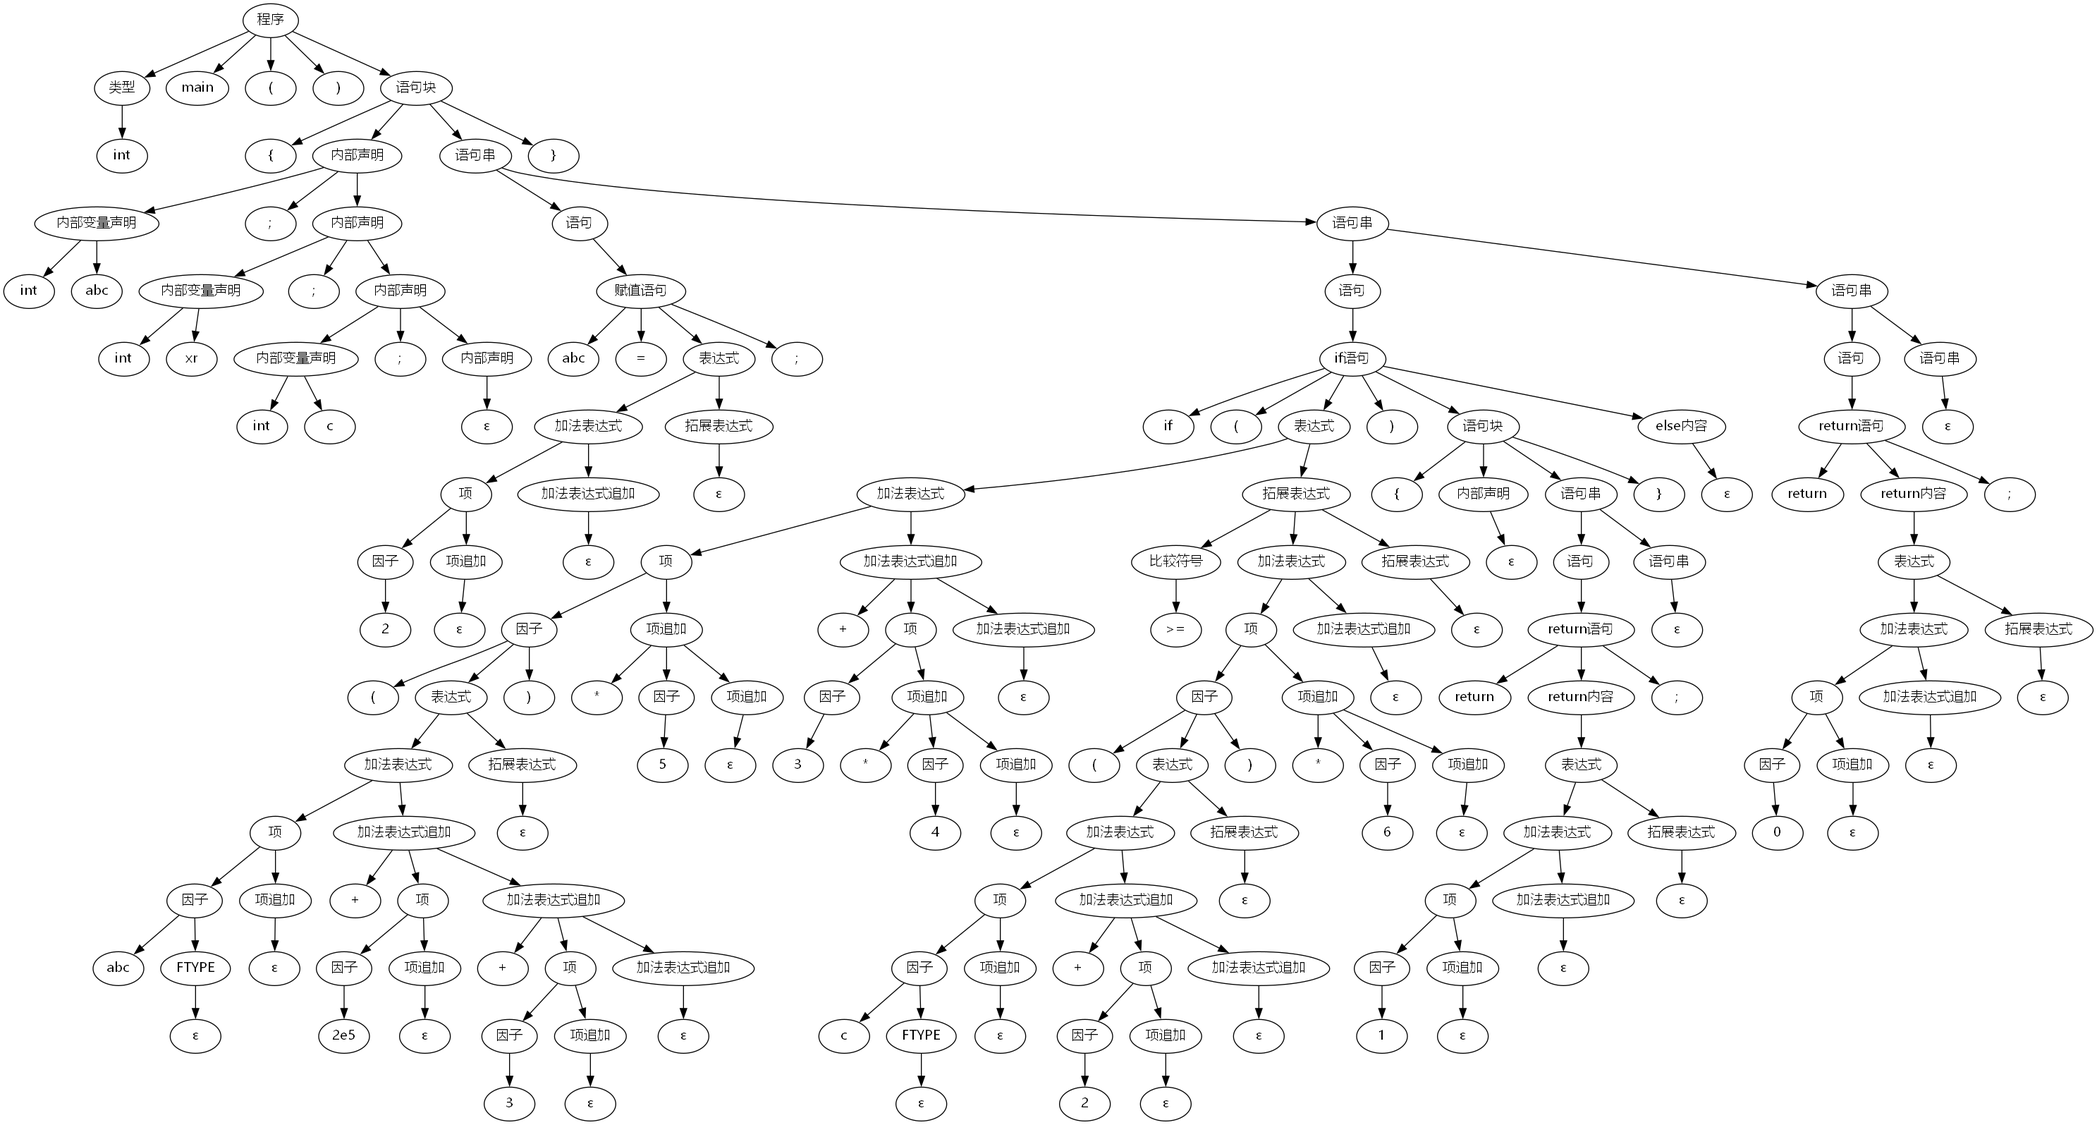
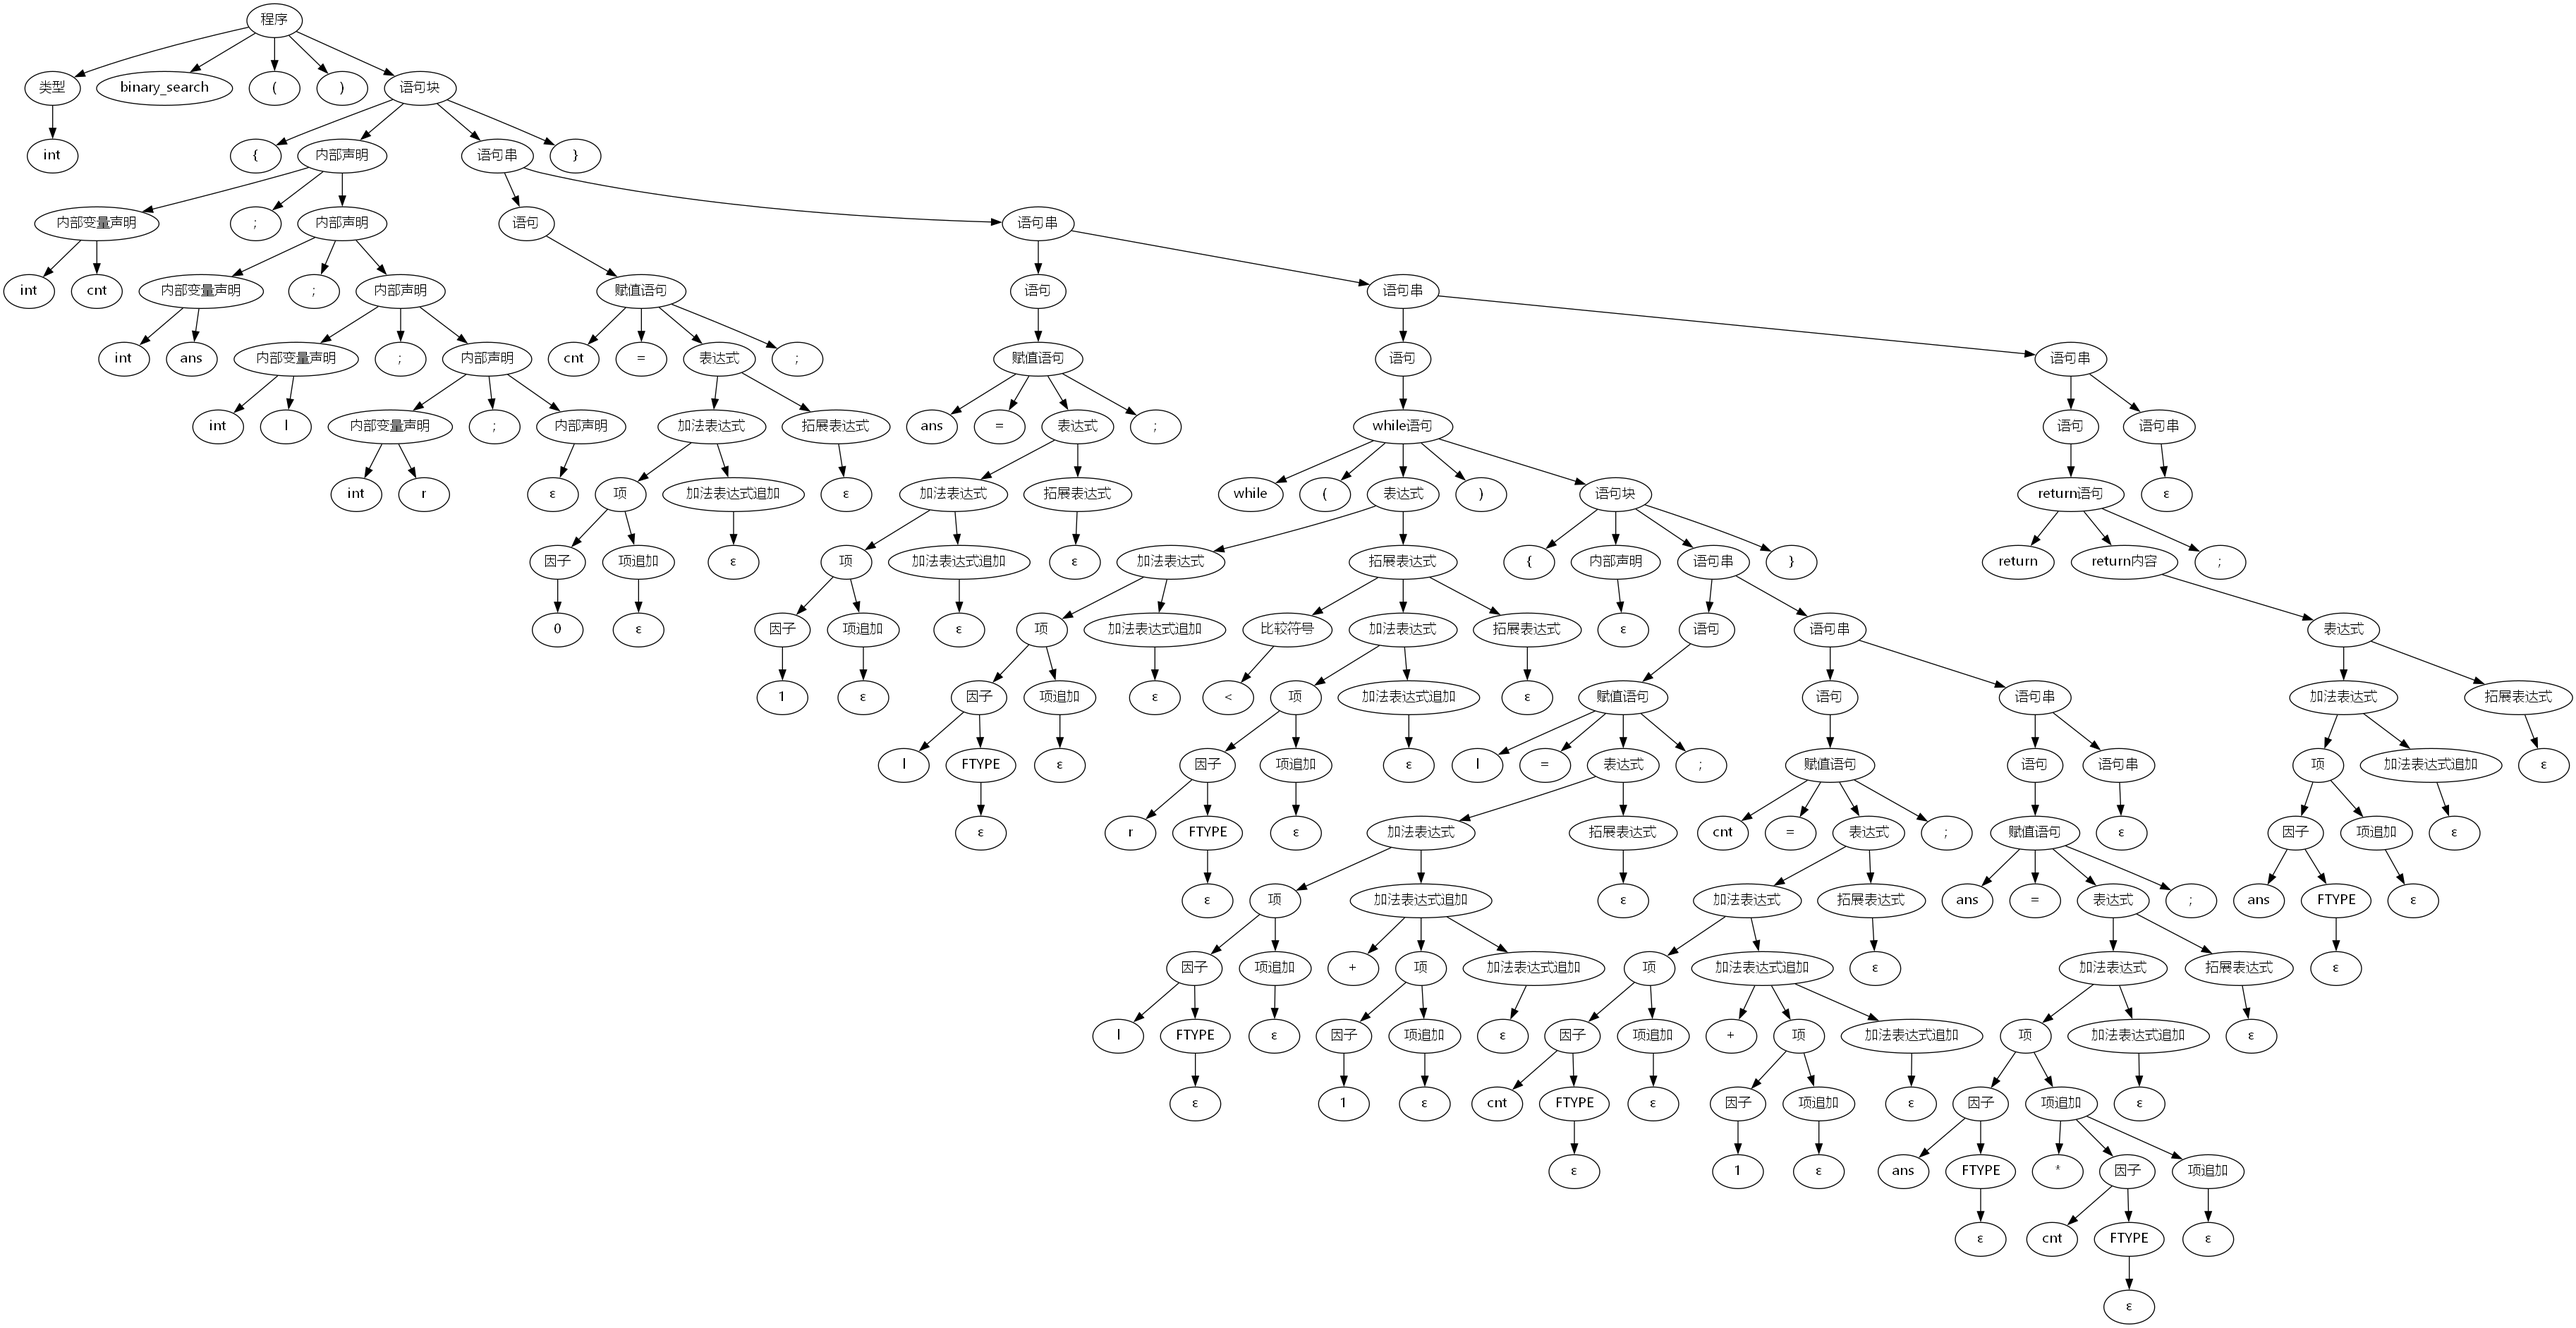
修正了词法分析器最后一行无法读入的bug.

diff --git a/gparser.py b/gparser.py
@@ -69,13 +69,13 @@ def initProjectSet():
 
 def GParser():
     initProjectSet()
-    input_st = ['#'] + w_dict[::-1]
+    input_st = [['#', 'INPUT_END', w_dict[-1][2]]] + w_dict[::-1]
     state_st, sym_st, id_st, son_st = [0], ['#'], [], []
     try:
         while len(input_st) > 0:
             ns = (state_st[-1], input_st[-1][0])#当前状态的元组
             t = action_goto.get(ns)
-            if not t:
+            if t is None:
                 raise Exception('[Error]#201 in line {}, position {}: Unexpected word \'{}\' after \'{}\'.'.format(*input_st[-1][2], input_st[-1][1], sym_st.pop()))
             if t[0] == 's' or t[0] == 'g': #移进或者goto,两者代码相同
                 it = input_st.pop()

diff --git a/lexer.py b/lexer.py
@@ -10,10 +10,12 @@ def preProcessComment(str): #预处理注释
 
 def getWorkString(str): #整行读取输入并返回分割后的字符串
     global w_ptr, l_cnt, w_str
+    if w_ptr == len(str):
+        return False
     l_cnt += 1
     ret = re.search('.*\n', str[w_ptr:])
     w_ptr, w_str = ret.end() + w_ptr, ret.group()
-    return False if w_ptr == len(str) else True
+    return True
 
 def dealWorkString(): #词法分析
     global l_cnt, w_ptr, w_str, word, w_type

diff --git a/input.c b/input.c
@@ -1,15 +1,14 @@
-int main(){
-    int abc;
-    int xr;
-    int c;
-    abc = 2;
-    if((abc+2e5+3)*5+3*4 >= (c+2)*6){
-        return 1;
-    } //judge if > 1
-    /*
-        if > 1 return 1
-        else return 0
-    */
-    return 0;
+int binary_search(){
+    int cnt;
+    int ans;
+    int l;
+    int r;
+    cnt = 0;
+    ans = 1;
+    while(l<r){
+        l=l+1;
+        cnt=cnt+1;
+        ans=ans*cnt;
+    }
+    return ans;
 }
-//fuck
